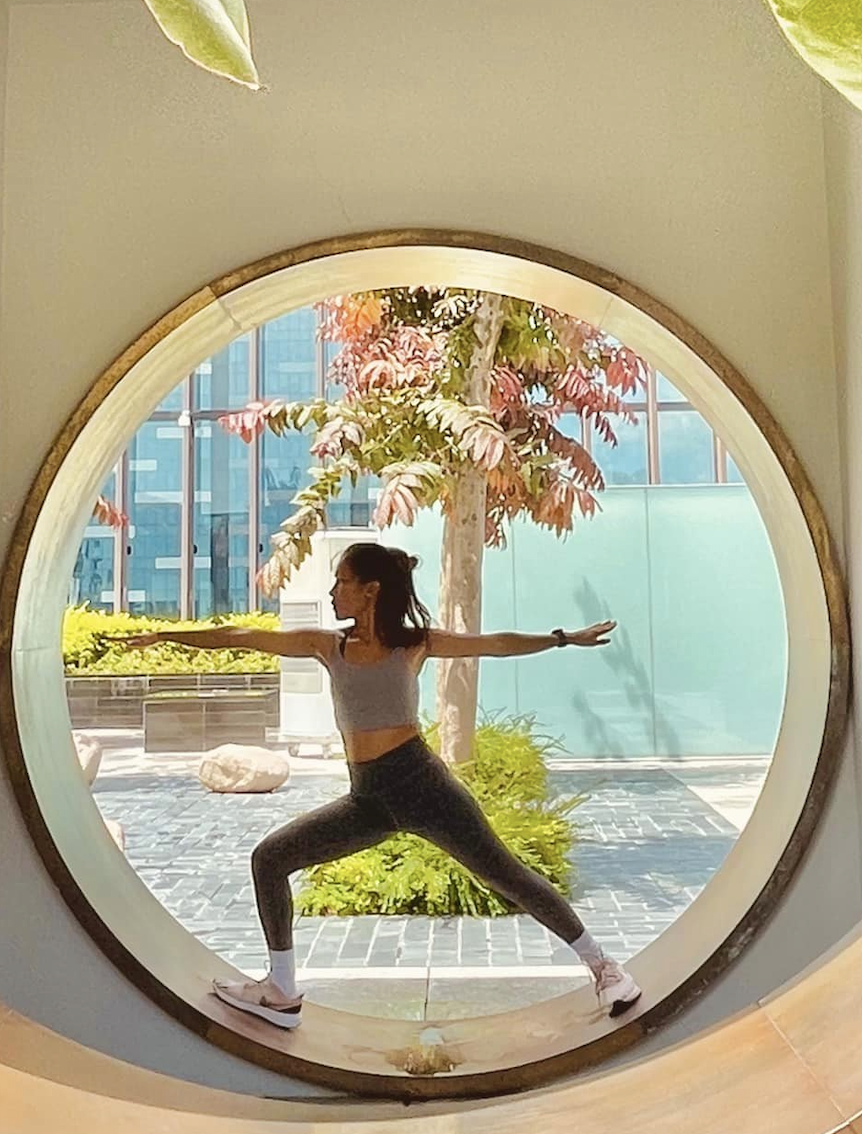
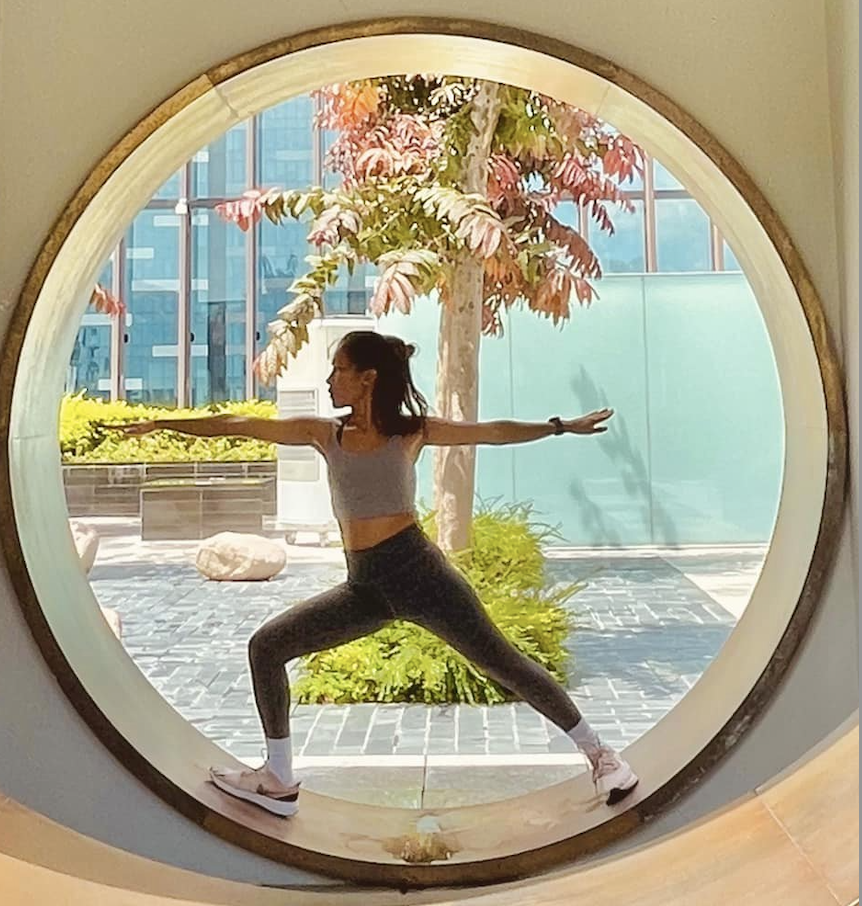
enhance homepage layout

diff --git a/src/components/SearchExercises.js b/src/components/SearchExercises.js
@@ -37,7 +37,7 @@ const SearchExercises = ({ setExercises, bodyPart, setBodyPart }) => {
   };
 
   return (
-    <Stack alignItems="center" mt="37px" justifyContent="center" p="20px">
+    <Stack alignItems="center" mt="35px" justifyContent="center" p="20px">
       <Typography fontWeight={700} sx={{ fontSize: { lg: '44px', xs: '30px' } }} mb="49px" textAlign="center">
         Awesome Exercises You <br /> Should Know
       </Typography>
@@ -50,7 +50,7 @@ const SearchExercises = ({ setExercises, bodyPart, setBodyPart }) => {
           placeholder="Search Exercises"
           type="text"
         />
-        <Button className="search-btn" sx={{ bgcolor: '#0D98BA', color: '#fff', textTransform: 'none', width: { lg: '173px', xs: '80px' }, height: '56px', position: 'absolute', right: '0px', fontSize: { lg: '20px', xs: '14px' } }} onClick={handleSearch}>
+        <Button className="search-btn" sx={{ bgcolor: '#0D98BA', color: '#fff', textTransform: 'none', width: { lg: '150px', xs: '80px' }, height: '56px', position: 'absolute', right: '0px', fontSize: { lg: '20px', xs: '14px' } }} onClick={handleSearch}>
           Search
         </Button>
       </Box>

diff --git a/src/components/HeroBanner.js b/src/components/HeroBanner.js
@@ -4,13 +4,13 @@ import { Box, Stack, Typography } from '@mui/material';
 import HeroBannerImage from '../assets/images/joan.png';
 
 const HeroBanner = () => (
-  <Box sx={{ mt: { lg: '212px', xs: '70px' }, ml: { sm: '50px' } }} position="relative" p="20px">
+  <Box sx={{ mt: { lg: '200px', xs: '70px' }, ml: { sm: '50px' } }} position="relative" p="20px">
     <Typography color="#0D98BA" fontWeight="600" fontSize="26px" fontFamily="Roboto">Fitness World</Typography>
     <Typography fontWeight={700} sx={{ fontSize: { lg: '44px', xs: '40px' } }} mb="23px" mt="30px">
     Dare to be great<br /> Exercise and Be Fit!
     </Typography>
     <Typography fontSize="22px" fontFamily="Alegreya" lineHeight="35px">
-      Check out the most effective exercises personalized to you
+      Check out the most effective exercises personalized to you.
     </Typography>
     <Stack>
       <a href="#exercises" style={{ marginTop: '45px', textDecoration: 'none', width: '200px', textAlign: 'center', fontSize: '22px', textTransform: 'none', color: 'white', borderRadius: '4px', background: '#0D98BA', padding: '14px'}}>Explore Exercises</a>

diff --git a/src/components/ExerciseCard.js b/src/components/ExerciseCard.js
@@ -6,10 +6,10 @@ const ExerciseCard = ({ exercise }) => (
   <Link className="exercise-card" to={`/exercise/${exercise.id}`}>
     <img src={exercise.gifUrl} alt={exercise.name} loading="lazy" />
     <Stack direction="row">
-      <Button sx={{ ml: '21px', color: '#fff', background: '#0D98BA', fontSize: '14px', borderRadius: '20px', textTransform: 'capitalize' }}>
+      <Button sx={{ ml: '21px', color: '#fff', background: '#FFA500', fontSize: '14px', borderRadius: '20px', textTransform: 'capitalize', padding:'4px 16px' }}>
         {exercise.bodyPart}
       </Button>
-      <Button sx={{ ml: '21px', color: '#fff', background: '#FCC757', fontSize: '14px', borderRadius: '20px', textTransform: 'capitalize' }}>
+      <Button sx={{ ml: '21px', color: '#fff', background: '#D3D3D3', fontSize: '14px', borderRadius: '20px', textTransform: 'capitalize' }}>
         {exercise.target}
       </Button>
     </Stack>

diff --git a/src/components/Footer.js b/src/components/Footer.js
@@ -1,13 +1,16 @@
 import React from 'react';
 import { Container, Stack, Typography } from '@mui/material';
-import Logo from '../assets/images/logo.jpg';
+import { Facebook, Instagram, Twitter } from '@mui/icons-material';
+
 
 const Footer = () => (
   <Container maxWidth="xlg" mt="80px" className='footer'>
     <Stack gap="20px" sx={{ alignItems: 'center' }} flexWrap="wrap" px="40px" pt="24px">
-      <img src={Logo} alt="logo" style={{ width: '120px', height: '80px' }} />
+      <div className='d-flex icons'>
+     <Facebook/> <Twitter/><Instagram/>
+     </div>
     </Stack>
-    <Typography variant="h5" sx={{ fontSize: { lg: '25px', xs: '20px' } }} mt="41px" textAlign="center" pb="20px">Made with ❤ by Alma Braun</Typography>
+    <Typography variant="h5" sx={{ fontSize: { lg: '25px', xs: '20px' } }} mt="41px" textAlign="center" pb="20px">Copyright reserved@2022</Typography>
   </Container>
 );
 

diff --git a/src/App.css b/src/App.css
@@ -1,6 +1,6 @@
 body {
     font-family: 'Josefin Sans';
-    background-color: #eff5f6;
+    background-color: #e3eaeb;
   
   }
   
@@ -50,6 +50,7 @@ body {
   .detail-image {
     width: 729px;
     height: 742px;
+    
   }
   
   .hero-banner-img {
@@ -57,15 +58,17 @@ body {
     right: 40px;
     top: 0px;
     width: 700px;
-    height: 900px;
+    height: 800px;
     margin-top: -330px;
+    border-radius: 100%;
+    border-left: 20px solid orange;
   
   }
   
   .exercise-card {
     width: 480px;
     height: 445px;
-    background: #fff;
+    background: #0D98BA;
     border-bottom-left-radius: 20px;
     text-decoration: none;
     display: flex;
@@ -106,7 +109,10 @@ body {
   .footer{
     width: 100%;
     margin: 20px auto;
-    background-color: #0D98BA;
+  
+  }
+  .icons{
+    color: #0D98BA;
   }
   @media screen and (max-width:1200px) {
     .detail-image {

diff --git a/src/components/HorizontalScrollbar.js b/src/components/HorizontalScrollbar.js
@@ -12,7 +12,7 @@ const LeftArrow = () => {
 
   return (
     <Typography onClick={() => scrollPrev()} className="right-arrow">
-      <img src={LeftArrowIcon} alt="right-arrow" width="50px" height="40px" />
+      <img src={LeftArrowIcon} alt="right-arrow" width="40px" height="30px" />
     </Typography>
   );
 };
@@ -22,7 +22,7 @@ const RightArrow = () => {
 
   return (
     <Typography onClick={() => scrollNext()} className="left-arrow">
-      <img src={RightArrowIcon} alt="right-arrow" width="50px"  height="40px" />
+      <img src={RightArrowIcon} alt="right-arrow" width="40px"  height="30px" />
     </Typography>
   );
 };
